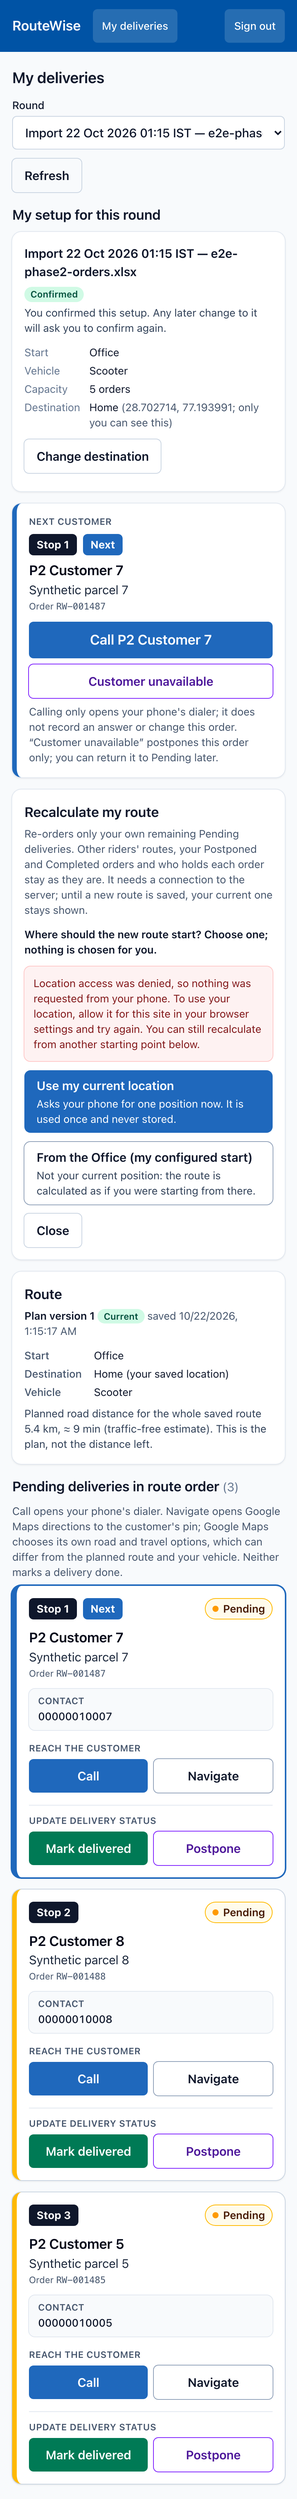
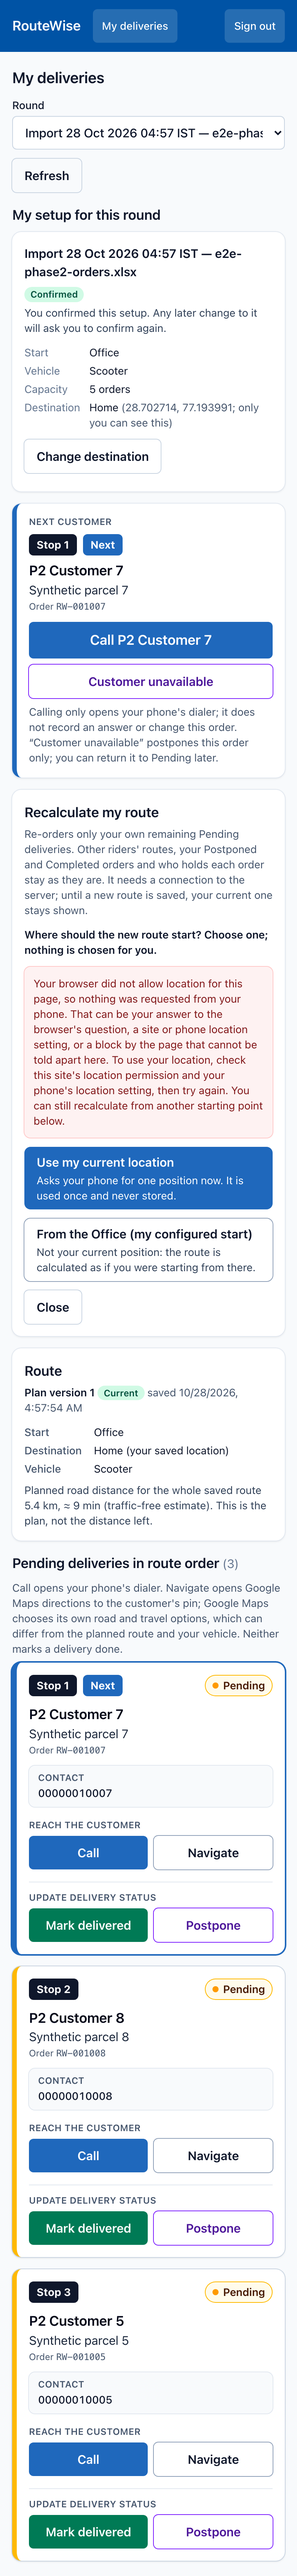
Allow geolocation for the app's own origin in Permissions-Policy
The real Android test found location blocked on http://localhost:8020: the API
sent "Permissions-Policy: geolocation=()" on every response, the HTML document
included. It is now "geolocation=(self), camera=(), microphone=()" (no wildcard;
other security headers, auth, CSRF and origin checks unchanged).

- A document-policy block is detected where the browser reports it
  (document.permissionsPolicy / featurePolicy) and worded as a block by the page,
  not as the rider's refusal; a plain code-1 error now uses neutral wording.
- Backend tests read the real Permissions-Policy of the HTML documents, SPA deep
  links, assets and API responses.
- New browser regression (playwright.fastapi.config.ts) serves the built app from
  FastAPI alone, as the phone launcher does, with native mocked geolocation. It
  fails with the old header. Real-phone GPS and Phase 4 acceptance stay pending.

diff --git a/apps/web/src/reroute.ts b/apps/web/src/reroute.ts
@@ -13,7 +13,7 @@ export type GpsLimits = RerouteOptions["gps_limits"];
 
 export interface Fix { lat: number; lng: number; accuracy_m: number; age_s: number }
 
-export type PositionProblem = "insecure" | "unsupported" | "denied" | "unavailable" | "timeout" | "inaccurate" | "stale" | "invalid";
+export type PositionProblem = "insecure" | "blocked" | "unsupported" | "denied" | "unavailable" | "timeout" | "inaccurate" | "stale" | "invalid";
 
 export class PositionError extends Error {
   constructor(readonly problem: PositionProblem, message: string) { super(message); this.name = "PositionError"; }
@@ -27,9 +27,12 @@ const FALLBACK_HINT = "You can still recalculate from another starting point bel
 export const POSITION_TEXT: Record<PositionProblem, string> = {
   insecure: "Location isn't available on this connection. Your browser shares its location only on a secure connection "
     + "(HTTPS, or http://localhost), and this page is not on one. " + FALLBACK_HINT,
+  blocked: "This page's own security settings block location, so your browser never asked you. That is not a choice you made, and "
+    + "changing your phone's location permission will not fix it. Tell your admin. " + FALLBACK_HINT,
   unsupported: "This browser cannot share its location with this page. " + FALLBACK_HINT,
-  denied: "Location access was denied, so nothing was requested from your phone. To use your location, allow it for this "
-    + "site in your browser settings and try again. " + FALLBACK_HINT,
+  denied: "Your browser did not allow location for this page, so nothing was requested from your phone. That can be your answer to "
+    + "the browser's question, a site or phone location setting, or a block by the page that cannot be told apart here. To use your "
+    + "location, check this site's location permission and your phone's location setting, then try again. " + FALLBACK_HINT,
   unavailable: "Your phone could not work out its position (no usable GPS or network location right now). Try again outdoors. "
     + FALLBACK_HINT,
   timeout: "Your phone did not give a position in time. Try again outdoors. " + FALLBACK_HINT,
@@ -38,8 +41,19 @@ export const POSITION_TEXT: Record<PositionProblem, string> = {
   invalid: "Your phone gave a position that could not be used. " + FALLBACK_HINT,
 };
 
-export function locationSupport(win: Pick<Window, "isSecureContext"> = window, nav: Pick<Navigator, "geolocation"> | object = navigator): "ok" | "insecure" | "unsupported" {
+type PolicyApi = { allowsFeature(feature: string): boolean };
+type PolicyDoc = { permissionsPolicy?: PolicyApi; featurePolicy?: PolicyApi };
+
+/** True only when this document's own Permissions-Policy forbids location. Chrome reports it (`permissionsPolicy`, formerly
+ * `featurePolicy`); a browser that does not is treated as "not known to be blocked", and its refusal reads as `denied`. */
+export function policyBlocksLocation(doc: PolicyDoc = document as PolicyDoc): boolean {
+  return (doc.permissionsPolicy ?? doc.featurePolicy)?.allowsFeature("geolocation") === false;
+}
+
+export function locationSupport(win: Pick<Window, "isSecureContext"> = window, nav: Pick<Navigator, "geolocation"> | object = navigator,
+  doc: PolicyDoc = document as PolicyDoc): "ok" | "insecure" | "blocked" | "unsupported" {
   if (win.isSecureContext === false) return "insecure";   // checked first: browsers expose the API but refuse it here
+  if (policyBlocksLocation(doc)) return "blocked";        // the page forbids it for itself: the rider was never asked
   return "geolocation" in nav && (nav as Navigator).geolocation ? "ok" : "unsupported";
 }
 
@@ -47,6 +61,7 @@ export interface ReadOptions {
   signal: AbortSignal;
   win?: Pick<Window, "isSecureContext">;
   nav?: Pick<Navigator, "geolocation">;
+  doc?: PolicyDoc;
   now?: () => number;
   timeoutMs?: number;
 }
@@ -55,7 +70,7 @@ export interface ReadOptions {
  * checks the limits the server published, so an unusable position is never sent. */
 export function readCurrentPosition(limits: GpsLimits, opts: ReadOptions): Promise<Fix> {
   const nav = opts.nav ?? navigator;
-  const support = locationSupport(opts.win ?? window, nav);
+  const support = locationSupport(opts.win ?? window, nav, opts.doc);
   if (support !== "ok") return Promise.reject(new PositionError(support, POSITION_TEXT[support]));
   const now = opts.now ?? Date.now;
   return new Promise<Fix>((resolve, reject) => {

diff --git a/apps/web/e2e/fastapi-geolocation.spec.ts b/apps/web/e2e/fastapi-geolocation.spec.ts
@@ -1,0 +1,45 @@
+// Regression for the Android GPS blocker: the built app, served by FastAPI alone, must let its own page use location.
+//
+// Root cause: FastAPI's HTML responses carried `Permissions-Policy: geolocation=()`, which disables location for the
+// document even on http://localhost. The Vite-served browser specs never saw FastAPI's headers, so they could not notice.
+//
+// MOCKED GEOLOCATION, not real-phone GPS: Playwright grants the permission and emulates a public test point. Nothing here
+// replaces navigator.geolocation.getCurrentPosition, so the browser's own policy and permission checks run.
+import { expect, test } from "@playwright/test";
+import { Api, gotoRound, newPage, signIn, WEB } from "./phase2-helpers";
+import { emulateGeolocation, GPS, openChooser, plannedRound, result, viewOf } from "./phase4d-helpers";
+
+test("served by FastAPI, the page may use location and the rider's current-position reroute succeeds (mocked geolocation)", async ({ browser }) => {
+  expect(WEB).toBe("http://localhost:8021");   // the FastAPI origin, not Vite
+  const { admin, rid } = await plannedRound();
+  const rp = await newPage(browser);
+  const posts: { status: number; body: string | null }[] = [];
+  rp.on("response", (r) => { if (r.request().method() === "POST" && /\/api\/rider\/rounds\/[^/]+\/reroute$/.test(r.url())) posts.push({ status: r.status(), body: r.request().postData() }); });
+  await emulateGeolocation(rp, GPS);   // permission granted + emulated public point; getCurrentPosition stays the browser's own
+
+  await signIn(rp, "p2_asha");
+  const html = await rp.goto("/rider");   // a deep link: FastAPI answers with index.html
+  expect(html!.headers()["permissions-policy"]).toBe("geolocation=(self), camera=(), microphone=()");
+  await gotoRound(rp, "/rider", rid);
+
+  const doc = await rp.evaluate(() => {
+    const d = document as unknown as { permissionsPolicy?: { allowsFeature(f: string): boolean }; featurePolicy?: { allowsFeature(f: string): boolean } };
+    const policy = d.permissionsPolicy ?? d.featurePolicy;
+    return {
+      supported: !!policy, location: policy?.allowsFeature("geolocation"), camera: policy?.allowsFeature("camera"), microphone: policy?.allowsFeature("microphone"),
+      native: /\[native code\]/.test(Function.prototype.toString.call(navigator.geolocation.getCurrentPosition)),
+    };
+  });
+  expect(doc).toEqual({ supported: true, location: true, camera: false, microphone: false, native: true });
+
+  await openChooser(rp);
+  await expect(rp.getByTestId("reroute-support")).toHaveCount(0);   // not "blocked", not "insecure"
+  await rp.getByTestId("reroute-current").click();
+  await expect(result(rp)).toContainText("Route recalculated from your current position (device location)");
+  expect(posts).toHaveLength(1);
+  expect(posts[0].status).toBe(202);
+  expect(JSON.parse(posts[0].body!).origin).toMatchObject({ kind: "current_position" });
+  expect((await viewOf(await Api.of(rp), rid)).plan!.rider_route!.revision).toMatchObject({ number: 1, origin_kind: "current_position" });
+  await rp.context().close();
+  await admin.ctx.dispose();
+});

diff --git a/apps/web/src/reroute.test.ts b/apps/web/src/reroute.test.ts
@@ -27,6 +27,21 @@ describe("location availability", () => {
     expect(locationSupport({ isSecureContext: true }, {})).toBe("unsupported");
     expect(locationSupport({ isSecureContext: true }, { geolocation: {} })).toBe("ok");
   });
+  it("is blocked, not denied, when the document's own Permissions-Policy forbids location", () => {
+    const allows = (v: boolean) => ({ allowsFeature: (f: string) => f !== "geolocation" || v });
+    expect(locationSupport({ isSecureContext: true }, { geolocation: {} }, { permissionsPolicy: allows(false) })).toBe("blocked");
+    expect(locationSupport({ isSecureContext: true }, { geolocation: {} }, { featurePolicy: allows(false) })).toBe("blocked");
+    expect(locationSupport({ isSecureContext: true }, { geolocation: {} }, { permissionsPolicy: allows(true) })).toBe("ok");
+    expect(locationSupport({ isSecureContext: true }, { geolocation: {} }, {})).toBe("ok");   // a browser that cannot tell
+  });
+  it("never asks the browser when the page blocks location, and does not claim the rider refused", async () => {
+    const g = geo((ok) => ok(fix(10)));
+    const err = await readCurrentPosition(LIMITS, { signal: new AbortController().signal, win: { isSecureContext: true }, nav: g.nav,
+      doc: { permissionsPolicy: { allowsFeature: () => false } } }).catch((e) => e);
+    expect(err).toMatchObject({ problem: "blocked" });
+    expect(g.getCurrentPosition).not.toHaveBeenCalled();
+    expect(err.message).not.toMatch(/denied|you (chose|refused)/i);
+  });
   it("never asks the browser on an insecure page", async () => {
     const g = geo((ok) => ok(fix(10)));
     await expect(readCurrentPosition(LIMITS, { signal: new AbortController().signal, win: { isSecureContext: false }, nav: g.nav }))

diff --git a/apps/web/playwright.fastapi.config.ts b/apps/web/playwright.fastapi.config.ts
@@ -1,0 +1,26 @@
+import { defineConfig, devices } from "@playwright/test";
+
+// Browser tests against the BUILT app served by FastAPI alone (no Vite), exactly as scripts/phone-server.sh serves it:
+// one origin, http://localhost:<port>, with FastAPI's own response headers on the HTML document. The Vite-served
+// config (playwright.config.ts) never sees those headers. Run: scripts/e2e.sh -c playwright.fastapi.config.ts
+const WEB = "http://localhost:8021";
+process.env.E2E_WEB = WEB;   // read by e2e/phase2-helpers.ts in the workers
+
+export default defineConfig({
+  testDir: "e2e",
+  testMatch: "fastapi-*.spec.ts",
+  fullyParallel: false,
+  workers: 1,
+  retries: 0,
+  reporter: [["list"]],
+  use: { baseURL: WEB, trace: "off", screenshot: "off" },
+  projects: [{ name: "mobile", use: { ...devices["Desktop Chrome"], viewport: { width: 390, height: 844 }, isMobile: true, hasTouch: true, deviceScaleFactor: 2 } }],
+  webServer: {
+    // Rebuilds the web app first so the test never runs against a stale dist/, then the e2e API factory (recorded matrices).
+    command: "npx vite build --logLevel error && ../../services/api/.venv/bin/uvicorn --factory scripts.e2e_app:get_app --app-dir ../../services/api --host 127.0.0.1 --port 8021 --log-level warning",
+    url: `${WEB}/api/health`,
+    reuseExistingServer: false,
+    timeout: 120_000,
+    env: { DATABASE_URL: process.env.E2E_DATABASE_URL ?? "", ROUTEWISE_ALLOWED_ORIGINS: WEB, ROUTEWISE_RESOLVE_SHORT_LINKS: "false" },
+  },
+});

diff --git a/apps/web/e2e/phase4d.spec.ts b/apps/web/e2e/phase4d.spec.ts
@@ -81,7 +81,7 @@ test("a granted location (mocked geolocation) recalculates only my route, from t
 test("every device-location problem is explained, sends nothing, and offers the other starting points", async ({ browser }) => {
   const { admin, rid } = await plannedRound();
   const cases: { name: string; stub: Parameters<typeof openRider>[3]; says: RegExp }[] = [
-    { name: "denied", stub: { stub: { kind: "error", code: 1 } }, says: /Location access was denied/ },
+    { name: "denied", stub: { stub: { kind: "error", code: 1 } }, says: /did not allow location for this page/ },
     { name: "unavailable", stub: { stub: { kind: "error", code: 2 } }, says: /could not work out its position/ },
     { name: "timeout", stub: { stub: { kind: "error", code: 3 } }, says: /did not give a position in time/ },
     { name: "inaccurate", stub: { stub: { kind: "fix", lat: GPS.lat, lng: GPS.lng, accuracy: 250 } }, says: /accurate only to about 250 m; the limit is 100 m/ },

diff --git a/apps/web/e2e/phase2-helpers.ts b/apps/web/e2e/phase2-helpers.ts
@@ -5,7 +5,7 @@ import { expect, request as playwrightRequest, test, type APIRequestContext, typ
 import { existsSync, mkdirSync, readFileSync, rmSync, writeFileSync } from "node:fs";
 import path from "node:path";
 
-export const WEB = "http://localhost:5174";
+export const WEB = process.env.E2E_WEB ?? "http://localhost:5174";   // E2E_WEB: playwright.fastapi.config.ts serves the app from FastAPI
 
 type Point = { lat: number; lng: number };
 export const state = JSON.parse(readFileSync(process.env.E2E_STATE ?? "", "utf8")) as {

diff --git a/apps/web/src/useReroute.test.tsx b/apps/web/src/useReroute.test.tsx
@@ -185,7 +185,7 @@ describe("the device position", () => {
     const { result } = setup();
     await act(async () => { await result.current.start("current_position"); });
     expect(result.current.phase).toBe("choosing");
-    expect(result.current.problem).toContain("Location access was denied");
+    expect(result.current.problem).toContain("did not allow location");
     expect(posts()).toHaveLength(0);
   });
 

diff --git a/apps/web/playwright.config.ts b/apps/web/playwright.config.ts
@@ -5,6 +5,7 @@ const WEB = "http://localhost:5174";
 
 export default defineConfig({
   testDir: "e2e",
+  testIgnore: "**/fastapi-*.spec.ts",   // those need the built app served by FastAPI: playwright.fastapi.config.ts
   fullyParallel: false,
   workers: 1,
   retries: 0,

diff --git a/services/api/tests/test_permissions_policy.py b/services/api/tests/test_permissions_policy.py
@@ -1,0 +1,45 @@
+"""The HTML document the phone loads carries the Permissions-Policy that lets the rider's own page use location.
+
+Root cause of the Android GPS blocker: the header was `geolocation=()`, which disables location even on http://localhost.
+These tests read the real response headers of the SPA documents served by FastAPI (a temporary build, so they do not
+depend on `npm run build`)."""
+
+from __future__ import annotations
+
+import pytest
+from fastapi.testclient import TestClient
+
+from routewise_api.main import SECURITY_HEADERS, create_app
+
+LOCATION_FOR_OWN_ORIGIN = "geolocation=(self), camera=(), microphone=()"
+
+
+@pytest.fixture
+def web(settings, clock, tmp_path, monkeypatch):
+    (tmp_path / "assets").mkdir()
+    (tmp_path / "assets" / "app.js").write_text("//")
+    (tmp_path / "index.html").write_text("<!doctype html><title>RouteWise</title>")
+    monkeypatch.setattr("routewise_api.main.WEB_DIST", tmp_path)
+    app = create_app(settings, clock=clock)
+    yield TestClient(app)
+    app.state.planning.shutdown()
+    app.state.engine.dispose()
+
+
+def test_policy_allows_location_for_the_own_origin_only():
+    assert SECURITY_HEADERS["Permissions-Policy"] == LOCATION_FOR_OWN_ORIGIN
+    assert "*" not in SECURITY_HEADERS["Permissions-Policy"]
+
+
+@pytest.mark.parametrize("path", ["/", "/index.html", "/login", "/rider", "/rider/rounds/0b6c1c2e", "/admin/orders", "/no/such/deep/link"])
+def test_every_html_document_and_spa_deep_link_carries_the_policy_and_the_other_security_headers(web, path):
+    r = web.get(path)
+    assert r.status_code == 200 and r.headers["content-type"].startswith("text/html") and "<title>RouteWise</title>" in r.text
+    assert r.headers["permissions-policy"] == LOCATION_FOR_OWN_ORIGIN
+    for name, value in SECURITY_HEADERS.items():
+        assert r.headers[name] == value, name
+
+
+@pytest.mark.parametrize("path", ["/assets/app.js", "/api/health", "/api/not-a-route"])
+def test_assets_and_api_responses_carry_the_same_policy(web, path):
+    assert web.get(path).headers["permissions-policy"] == LOCATION_FOR_OWN_ORIGIN

diff --git a/services/api/routewise_api/main.py b/services/api/routewise_api/main.py
@@ -72,7 +72,7 @@ SECURITY_HEADERS = {
     "X-Frame-Options": "DENY",
     "Referrer-Policy": "same-origin",
     "Cross-Origin-Opener-Policy": "same-origin",
-    "Permissions-Policy": "geolocation=(), camera=(), microphone=()",
+    "Permissions-Policy": "geolocation=(self), camera=(), microphone=()",  # location only for our own origin (rider reroute); never "*"
     "Content-Security-Policy": "default-src 'self'; img-src 'self' data:; style-src 'self' 'unsafe-inline'; "
                                "connect-src 'self'; frame-ancestors 'none'; base-uri 'none'; form-action 'self'",
 }

diff --git a/CLAUDE.md b/CLAUDE.md
@@ -1,7 +1,7 @@
 # RouteWise — notes for Claude Code
 
 - Scope baseline: `docs/source/notion/RouteWise/01-Product.md` (R01–R24, add-ons 2/4/8/9 only). Do not add fuel analytics, a postponed dashboard, a balanced-workload mode, or compulsory package/dispatch confirmation. Order statuses are exactly Pending / Postponed / Completed.
-- Work phase by phase (`docs/source/notion/RouteWise/04-Roadmap.md`). Phase 0 was accepted on 2026-10-13 (`docs/phase0/OWNER-ACCEPTANCE-2026-10-13.md`). Phase 1 was accepted for local development on 2026-10-13 at `fcac55e` (`docs/phase1/OWNER-ACCEPTANCE-2026-10-13.md`). Phase 2 is planned in `docs/phase2/IMPLEMENTATION-PLAN.md` (steps 2A → 2B → 2C). Phase 2 (2A `13de782`, 2B `9c0db08`, 2C `41b37f8`) was accepted for local development on 2026-10-19 at `41b37f8` (`docs/phase2/OWNER-ACCEPTANCE-2026-10-19.md`); its pending decisions and limitations stay open. Phase 3 (3A `2b52cbc` rider delivery view and links; 3B `e2139c1` rider status updates, migration 0004 adds `route_version`; delivery-card polish) was accepted for local development on 2026-10-19 (`docs/phase3/OWNER-ACCEPTANCE-2026-10-19.md`), based on automated evidence and owner-reported phone results (OnePlus Nord 5, Chrome; `docs/phase3/PHONE-TEST-RESULTS.md`); not production acceptance, and its limitations stay open. Keep the rider route-plan summary/version card's design as it is (owner request); since 4D, also at the owner's request, its data reads the rider's effective route (revision, destination, planned totals, recalculation state). Every status change bumps `input_version` (stale solves); only non-progress changes bump `route_version` (saved-route usability) — keep that split. **Phase 4** is planned in `docs/phase4/IMPLEMENTATION-PLAN.md` (steps 4A → 4B → 4C → 4D). **Step 4A (next-customer quick call and "Customer unavailable" = Postpone; UI only) is committed ("Add RouteWise quick next-customer availability call", after `3fa1e40`), awaiting owner review** (`docs/phase4/STEP-4A-REPORT.md`). **Step 4B (rider route revisions on immutable round plans, `services/api/routewise_api/reroute.py`, migration 0005; API-only until 4D) is committed ("Add RouteWise individual rider rerouting", after `e40e0b0`), awaiting owner review** (`docs/phase4/STEP-4B-REPORT.md`). Its GPS limits (≤100 m, ≤60 s), no manual position entry, priority-stays-first, round-wide admin edits and refusing reroutes during admin optimization are PROVISIONAL configurable defaults, not approved product decisions; Q4-6 is pending. **Step 4C (same-building stop grouping: `routewise_api/stop_groups.py`, migration 0006, admin controls on the Orders page; rider shared-stop metadata through the API only, the full rider shared-stop presentation and one Navigate per shared stop are 4D) is implemented and committed ("Add RouteWise same-building stop grouping", after `1cab378`), awaiting owner review** (`docs/phase4/STEP-4C-REPORT.md`). Its grouping rule (suggest only orders of one round with exactly identical resolved, valid pins; explicit admin confirmation; nearby pins, names and address text never group; identical pins may stay separate stops) is a PROVISIONAL local implementation default for Q4-1, not an approved permanent policy. A rider's own destination change bumps only `round_riders.route_version` (R23); never persist or log device positions; phone GPS has not been tested. `scripts/phone-server.sh` refuses an out-of-date `routewise_phone` (`services/api/scripts/phone_db.py check`); it never resets, rebuilds or migrates, and only the owner runs `phone_db.py upgrade` (keeps data) or `phone_setup.py` (deletes it). **Step 4D (the rider screens: "Recalculate my route" with explicit, never-preselected origins; one-shot device position that is never stored; safe run handling with expected plan/revision, unknown-outcome reads, bounded polling and discovery of an existing run; shared-stop containers with one Navigate per stop; the Route card and the admin plan page reading the effective rider route; `scripts/phone-server.sh localhost` for a later USB/`adb reverse` GPS test) is implemented, including a correction pass for plan/revision identity and unresolved-state handling, and committed ("Add RouteWise rider rerouting screens and shared stops", after `8336ed0`), awaiting owner review** (`docs/phase4/STEP-4D-REPORT.md`). Browser GPS tests use MOCKED geolocation only: **real-phone testing (including GPS) and Phase 4 acceptance are PENDING**, and a real GPS check needs a secure context (localhost mode), never the Wi-Fi HTTP address. Do not start Phase 5 until the owner asks. Phase 4 is incomplete. Planning uses only local Valhalla (`spikes/valhalla/data/valhalla_tiles`); recorded matrices are injected by tests only. Plan proposals Q1–Q8 are pending, not approved; do not build the Q1 "all orders Pending" replanning restriction without approval.
+- Work phase by phase (`docs/source/notion/RouteWise/04-Roadmap.md`). Phase 0 was accepted on 2026-10-13 (`docs/phase0/OWNER-ACCEPTANCE-2026-10-13.md`). Phase 1 was accepted for local development on 2026-10-13 at `fcac55e` (`docs/phase1/OWNER-ACCEPTANCE-2026-10-13.md`). Phase 2 is planned in `docs/phase2/IMPLEMENTATION-PLAN.md` (steps 2A → 2B → 2C). Phase 2 (2A `13de782`, 2B `9c0db08`, 2C `41b37f8`) was accepted for local development on 2026-10-19 at `41b37f8` (`docs/phase2/OWNER-ACCEPTANCE-2026-10-19.md`); its pending decisions and limitations stay open. Phase 3 (3A `2b52cbc` rider delivery view and links; 3B `e2139c1` rider status updates, migration 0004 adds `route_version`; delivery-card polish) was accepted for local development on 2026-10-19 (`docs/phase3/OWNER-ACCEPTANCE-2026-10-19.md`), based on automated evidence and owner-reported phone results (OnePlus Nord 5, Chrome; `docs/phase3/PHONE-TEST-RESULTS.md`); not production acceptance, and its limitations stay open. Keep the rider route-plan summary/version card's design as it is (owner request); since 4D, also at the owner's request, its data reads the rider's effective route (revision, destination, planned totals, recalculation state). Every status change bumps `input_version` (stale solves); only non-progress changes bump `route_version` (saved-route usability) — keep that split. **Phase 4** is planned in `docs/phase4/IMPLEMENTATION-PLAN.md` (steps 4A → 4B → 4C → 4D). **Step 4A (next-customer quick call and "Customer unavailable" = Postpone; UI only) is committed ("Add RouteWise quick next-customer availability call", after `3fa1e40`), awaiting owner review** (`docs/phase4/STEP-4A-REPORT.md`). **Step 4B (rider route revisions on immutable round plans, `services/api/routewise_api/reroute.py`, migration 0005; API-only until 4D) is committed ("Add RouteWise individual rider rerouting", after `e40e0b0`), awaiting owner review** (`docs/phase4/STEP-4B-REPORT.md`). Its GPS limits (≤100 m, ≤60 s), no manual position entry, priority-stays-first, round-wide admin edits and refusing reroutes during admin optimization are PROVISIONAL configurable defaults, not approved product decisions; Q4-6 is pending. **Step 4C (same-building stop grouping: `routewise_api/stop_groups.py`, migration 0006, admin controls on the Orders page; rider shared-stop metadata through the API only, the full rider shared-stop presentation and one Navigate per shared stop are 4D) is implemented and committed ("Add RouteWise same-building stop grouping", after `1cab378`), awaiting owner review** (`docs/phase4/STEP-4C-REPORT.md`). Its grouping rule (suggest only orders of one round with exactly identical resolved, valid pins; explicit admin confirmation; nearby pins, names and address text never group; identical pins may stay separate stops) is a PROVISIONAL local implementation default for Q4-1, not an approved permanent policy. A rider's own destination change bumps only `round_riders.route_version` (R23); never persist or log device positions; phone GPS has not been tested. `scripts/phone-server.sh` refuses an out-of-date `routewise_phone` (`services/api/scripts/phone_db.py check`); it never resets, rebuilds or migrates, and only the owner runs `phone_db.py upgrade` (keeps data) or `phone_setup.py` (deletes it). **Step 4D (the rider screens: "Recalculate my route" with explicit, never-preselected origins; one-shot device position that is never stored; safe run handling with expected plan/revision, unknown-outcome reads, bounded polling and discovery of an existing run; shared-stop containers with one Navigate per stop; the Route card and the admin plan page reading the effective rider route; `scripts/phone-server.sh localhost` for a later USB/`adb reverse` GPS test) is implemented, including a correction pass for plan/revision identity and unresolved-state handling, and committed ("Add RouteWise rider rerouting screens and shared stops", after `8336ed0`), awaiting owner review** (`docs/phase4/STEP-4D-REPORT.md`). Browser GPS tests use MOCKED geolocation only: **real-phone testing (including GPS) and Phase 4 acceptance are PENDING**, and a real GPS check needs a secure context (localhost mode), never the Wi-Fi HTTP address. The real-phone test found that the API's `Permissions-Policy: geolocation=()` blocked location on `http://localhost:8020`; the fix (`geolocation=(self)`, a distinct "blocked" wording, a FastAPI-served browser regression) is on branch `fix/geolocation-permissions-policy` and not merged (`docs/phase4/GEOLOCATION-POLICY-FIX.md`); real-phone GPS stays pending. Do not start Phase 5 until the owner asks. Phase 4 is incomplete. Planning uses only local Valhalla (`spikes/valhalla/data/valhalla_tiles`); recorded matrices are injected by tests only. Plan proposals Q1–Q8 are pending, not approved; do not build the Q1 "all orders Pending" replanning restriction without approval.
 - `docs/source/` is a verbatim copy of the documentation package. Put new or changed docs in `docs/phase0/` (and later phase folders), not in `docs/source/`.
 - Spike: `cd spikes/routing && ./run_phase0.sh`. Tests: `.venv/bin/python -m pytest -q`. Live network tests are opt-in via `ROUTEWISE_LIVE_TESTS=1`.
 - Python 3.14.3 in `spikes/routing/.venv` (pinned by `requirements.lock`). Never modify system Python.

diff --git a/docs/phase4/GEOLOCATION-POLICY-FIX.md b/docs/phase4/GEOLOCATION-POLICY-FIX.md
@@ -1,0 +1,49 @@
+# Geolocation blocker found in the real Android phone test — fix and evidence
+
+Status: fix implemented on branch `fix/geolocation-permissions-policy`, **not merged**. This is a defect fix for step 4D. It does not accept Phase 4:
+real-phone GPS and the shared-building checks on the phone are still **pending**, and Phase 4 is incomplete.
+
+## Root cause
+
+`services/api/routewise_api/main.py` added `Permissions-Policy: geolocation=(), camera=(), microphone=()` to every response, the
+HTML document included. An empty allowlist `geolocation=()` disables location for the document for every origin, `http://localhost:8020` too. The
+phone server and the `adb reverse` route were correct (a loopback page is a secure context); the document policy blocked location before the
+browser could ask the rider. Chrome reports such a block through the same error code as a refused permission (`PERMISSION_DENIED`).
+
+## Fix
+
+- Header is now `geolocation=(self), camera=(), microphone=()`: location only for the app's own origin; camera and microphone stay blocked; no
+  wildcard. The other security headers, authentication, CSRF and origin restrictions are unchanged. No browser flag or certificate bypass is involved.
+- Location error wording (`apps/web/src/reroute.ts`):
+  - Where the browser says so (`document.permissionsPolicy`, formerly `featurePolicy`, `allowsFeature("geolocation")`), a document-policy block is a
+    separate problem, `blocked`: "This page's own security settings block location, so your browser never asked you. That is not a choice you
+    made…". It is detected before asking, so nothing is requested. The location button stays disabled and the other starting points stay available.
+  - An error code 1 elsewhere is no longer worded as the rider's own refusal. It now says the browser did not allow location for this page, and lists
+    the possible causes (the browser's question, a site or phone setting, a block by the page that cannot be told apart here).
+  - A browser that does not expose the policy API is treated as "not known to be blocked".
+
+## Tests
+
+- Backend (`services/api/tests/test_permissions_policy.py`): the real HTML documents FastAPI serves (a temporary build), including `/`, `/index.html`
+  and SPA deep links, carry exactly `geolocation=(self), camera=(), microphone=()` and every other security header; assets and API responses carry the same policy.
+- Frontend unit tests (`reroute.test.ts`, `useReroute.test.tsx`): `blocked` vs `denied`, no browser call when the page blocks location.
+- Browser regression (`apps/web/e2e/fastapi-geolocation.spec.ts`, config `playwright.fastapi.config.ts`): rebuilds the web app, serves it from FastAPI alone
+  on `http://localhost:8021`, as `scripts/phone-server.sh` does, and checks in Chrome that the document header is right, the page's own policy allows
+  location and still blocks camera and microphone, `getCurrentPosition` is the browser's native function (never replaced), and tapping "Use my
+  current location" sends a reroute that the server accepts (202) and saves as a current-position revision.
+  **This is mocked geolocation, not real-phone GPS**: Playwright grants the permission and emulates a public test point in the DU North Campus fixtures.
+  Run: `scripts/e2e.sh -c playwright.fastapi.config.ts` (isolated `routewise_e2e` database; `routewise_phone` is not touched).
+- Regression demonstration: with the old `geolocation=()` header put back temporarily, the spec failed twice. First on the header assertion
+  (`Received: "geolocation=(), camera=(), microphone=()"`). Then, with that one assertion switched off, on the browser's own answer
+  (`location: false` where `true` was expected). The fix was restored afterwards.
+
+## Why the earlier browser tests missed it (coverage gap)
+
+The existing Playwright specs run the app through the Vite dev server (`localhost:5174`, `/api` proxied). Vite serves the HTML, so FastAPI's
+`Permissions-Policy` header never reached the page, and Playwright's granted permission was enough for emulated geolocation to answer. The
+phone launcher serves the built app from FastAPI, a path no browser test exercised. The new spec covers it.
+
+## Still pending (unchanged)
+
+Real-phone GPS (Android, USB `adb reverse`, `scripts/phone-server.sh localhost`), the shared-building checks on the phone, and Phase 4 acceptance. Plan
+proposals Q1–Q8 and the provisional 4B/4C defaults stay open.
